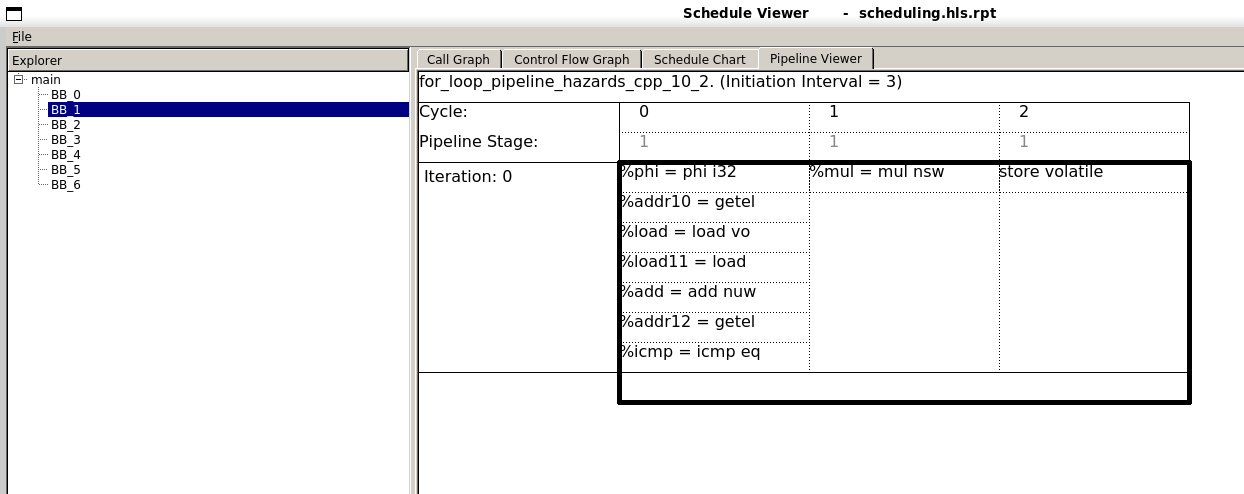
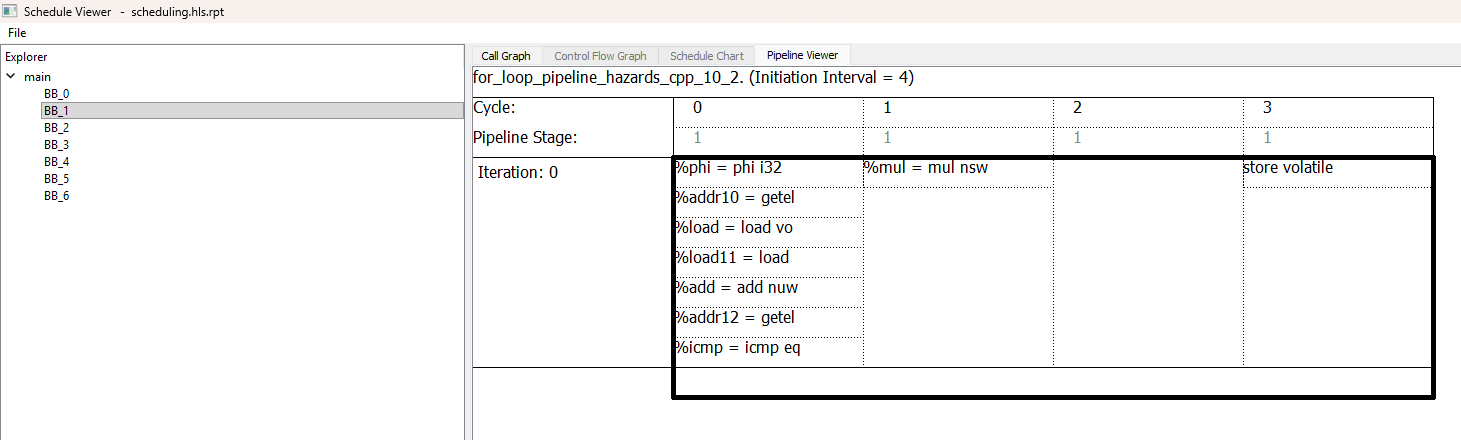
(Training1) Correct section "Cross-Iteration Dependencies" 	    Correct the Initiation Interval to 4 instead of 3.

Changed region(s): [[0.0, 0.0, 1.0, 1.0]]

diff --git a/Training1/readme.md b/Training1/readme.md
@@ -1681,7 +1681,7 @@ previous iteration, but the next iteration is also waiting for the
 current iteration. We cannot parallelize any operations along this
 recurrence, so we need to wait 1 cycle for the load, 2 cycles for the
 multiply (due to internal hardware constraints in the multiply unit it is 2 cycles instead of 1), and 1 cycle for the store before starting every loop
-iteration. Therefore, the pipeline initiation interval is 3 cycles (1 +
+iteration. Therefore, the pipeline initiation interval is 4 cycles (1 +
 2 + 1). A diagram of how the pipeline schedule would look is presented
 in Figure 19.
 ```c
@@ -1693,7 +1693,7 @@ void cross_iteration_dependency( volatile int array[N] ) {
     }
 }
 ```
-<p align="center"><img src=".//media/image93.png"/></br>Figure 19: Example of initiation interval of 3 due to cross-iteration
+<p align="center"><img src=".//media/image93.png"/></br>Figure 19: Example of initiation interval of 4 due to cross-iteration
 dependency.</p></br>
 
 ![](.//media/image2.png)In the Console output, find the messages
@@ -1701,22 +1701,21 @@ generated from compiling the project to hardware in the previous step.
 Near the bottom of the Console there is the following output. You might
 need to scroll up a bit to see it.
 ```
-Info: Cross-iteration dependency does not allow initiation interval (II) of 1.
-    Dependency (distance = 1) from 'store' operation for array 'array' (at line 11 of pipeline_hazards.cpp) to
-'load' (32b) operation for array 'array' (at line 11 of pipeline_hazards.cpp)
-    Recurrence path:
-+------------------------------------------+---------------------------------+---------------+------------+
-| Operation                                | Location                        | Cycle Latency | Delay [ns] |
-+------------------------------------------+---------------------------------+---------------+------------+
-| 'load' (32b) operation for array 'array' | line 11 of pipeline_hazards.cpp | 1             | 0.00       |
-| 'mul' (32b) operation                    | line 11 of pipeline_hazards.cpp | 1             | 3.70       |
-| 'store' operation for array 'array'      | line 11 of pipeline_hazards.cpp | 1             | 0.00       |
-+------------------------------------------+---------------------------------+---------------+------------+
-|                                          | Total                           | 3             | 3.70       |
-+------------------------------------------+---------------------------------+---------------+------------+
-
-Total required latency = 3. Maximum allowed latency = distance x II = 1 x 1 = 1.
-Total required latency > Maximum allowed latency, we must increase II.
+Info: Cross-iteration dependency does not allow initiation interval (II) of 3.
+      Dependency (distance = 1) from 'store' operation for array 'array' (at line 11 of pipeline_hazards.cpp) to 'load' (32b) operation for array 'array' (at line 11 of pipeline_hazards.cpp)
+      Recurrence path:
+      +------------------------------------------+---------------------------------+---------------+------------+
+      | Operation                                | Location                        | Cycle Latency | Delay [ns] |
+      +------------------------------------------+---------------------------------+---------------+------------+
+      | 'load' (32b) operation for array 'array' | line 11 of pipeline_hazards.cpp | 1             | 0.00       |
+      | 'mul' (32b) operation                    | line 11 of pipeline_hazards.cpp | 2             | 3.70       |
+      | 'store' operation for array 'array'      | line 11 of pipeline_hazards.cpp | 1             | 0.00       |
+      +------------------------------------------+---------------------------------+---------------+------------+
+      |                                          | Total                           | 4             | 3.70       |
+      +------------------------------------------+---------------------------------+---------------+------------+
+      
+      Total required latency = 4. Maximum allowed latency = distance x II = 1 x 3 = 3.
+      Total required latency > Maximum allowed latency, we must increase II.
 ```
 
 SmartHLS automatically prints out a table specifying which instructions
